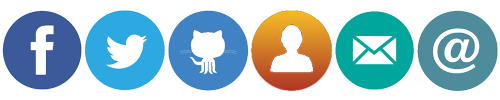
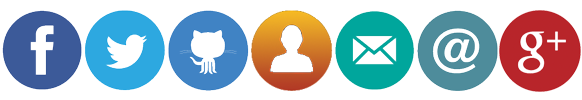
Bump version to v1.3.0, add Google auth demo

diff --git a/index.html b/index.html
@@ -69,6 +69,13 @@
                 <p><a href="javascript:login('github');">Launch demo &raquo;</a></p>
               </div>
             </div>
+            <div class="example google">
+              <div class="icon"></div>
+              <div class="description">
+                <h4>Google</h4>
+                <p><a href="javascript:login('google');">Launch demo &raquo;</a></p>
+              </div>
+            </div>
             <div class="example persona">
               <div class="icon"></div>
               <div class="description">
@@ -161,7 +168,7 @@ auth.login('&lt;provider&gt;');</code></pre>
   </div>
 
   <script type="text/javascript" src="https://cdn.firebase.com/v0/firebase.js"></script>
-  <script type='text/javascript' src='https://cdn.firebase.com/js/simple-login/1.2.5/firebase-simple-login.js'></script>
+  <script type='text/javascript' src='https://cdn.firebase.com/js/simple-login/1.3.0/firebase-simple-login.js'></script>
   <script type="text/javascript" src="https://login.persona.org/include.js"></script>
   <script type="text/javascript">
     var href = document.location.href;

diff --git a/css/style.css b/css/style.css
@@ -144,27 +144,31 @@ p.larger {
 .example .icon {
   background: url('../img/icons.png');
   background-position: 0 0;
-  background-size: 250px 50px;
+  background-size: 291px 50px;
 }
 
 .example.facebook .icon {
-  background-position: 0px 0px;
+  background-position: 0px -2px;
 }
 
 .example.github .icon {
-  background-position: -83px 0px;
+  background-position: -83px -2px;
 }
 
 .example.persona .icon {
-  background-position: -125px 0px;
+  background-position: -125px -2px;
 }
 
 .example.twitter .icon {
-  background-position: -41px 0px;
+  background-position: -41px -2px;
 }
 
 .example.password .icon {
-  background-position: -166px 0px;
+  background-position: -166px -2px;
+}
+
+.example.google .icon {
+  background-position: -249px -2px;
 }
 
 .bigicon {
